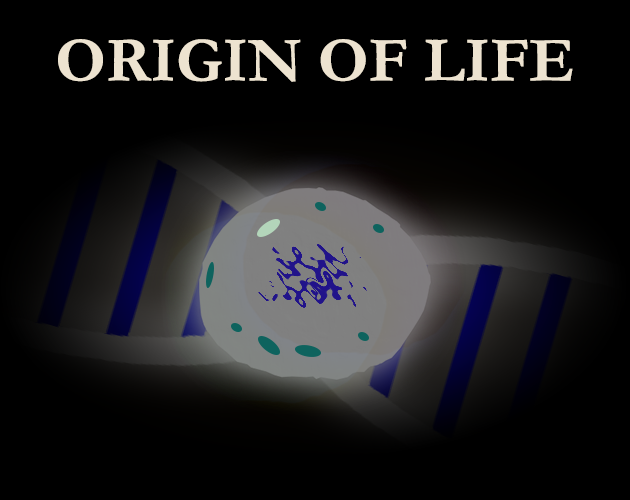
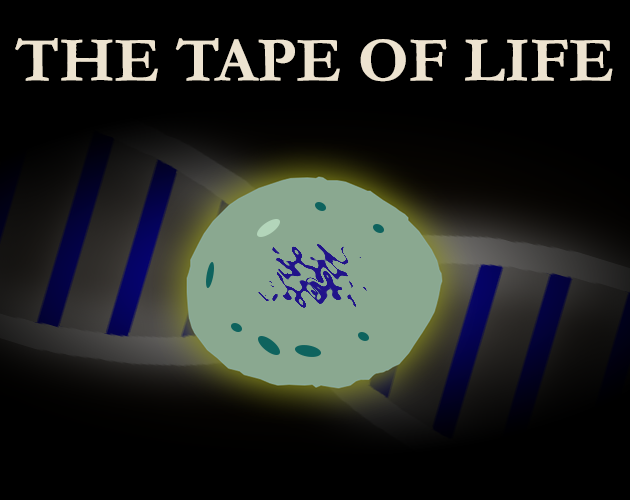
Changed Origin of Life to Tape of Life

Changed region(s): [[0.0, 0.3, 1.0, 0.81], [0.0302, 0.06, 0.9952, 0.18], [0.0, 0.42, 0.0302, 0.48]]

diff --git a/index.html b/index.html
@@ -838,11 +838,11 @@
             <h3>Personal Game / Simulation Projects</h3>
             <div class="carousel">
                 <div class="item">
-                    <h3>Origin of Life</h3>
+                    <h3>Tape of Life</h3>
                     <div class="hover-container"
                         style="display: flex; flex-wrap: wrap; gap: 10px; justify-content: center;">
                         <div class="thumb-wrap" data-preview>
-                            <img src="OriginOfLifeThumbnail.png" alt="Origin of Life"
+                            <img src="OriginOfLifeThumbnail1.png" alt="The Tape of Life"
                                 class="game-thumbnail preview-thumb" style="width: 280px; border-radius: 16px;">
                             <video class="preview-video" src="Media/OriginOfLifeVID.mp4" loop muted playsinline
                                 style="width: 280px; border-radius: 16px; display: none;">
@@ -852,7 +852,7 @@
                                     class="platform-badge" alt="itch.io">
                             </div>
                         </div>
-                        <a href="https://furkancx.itch.io/origin-of-life" target="_blank" class="link-icon">
+                        <a href="https://furkancx.itch.io/the-tape-of-life" target="_blank" class="link-icon">
                             <img src="https://cdn.jsdelivr.net/npm/simple-icons@v9/icons/itchdotio.svg" alt="Itch.io">
                             Itch.io
                         </a>
